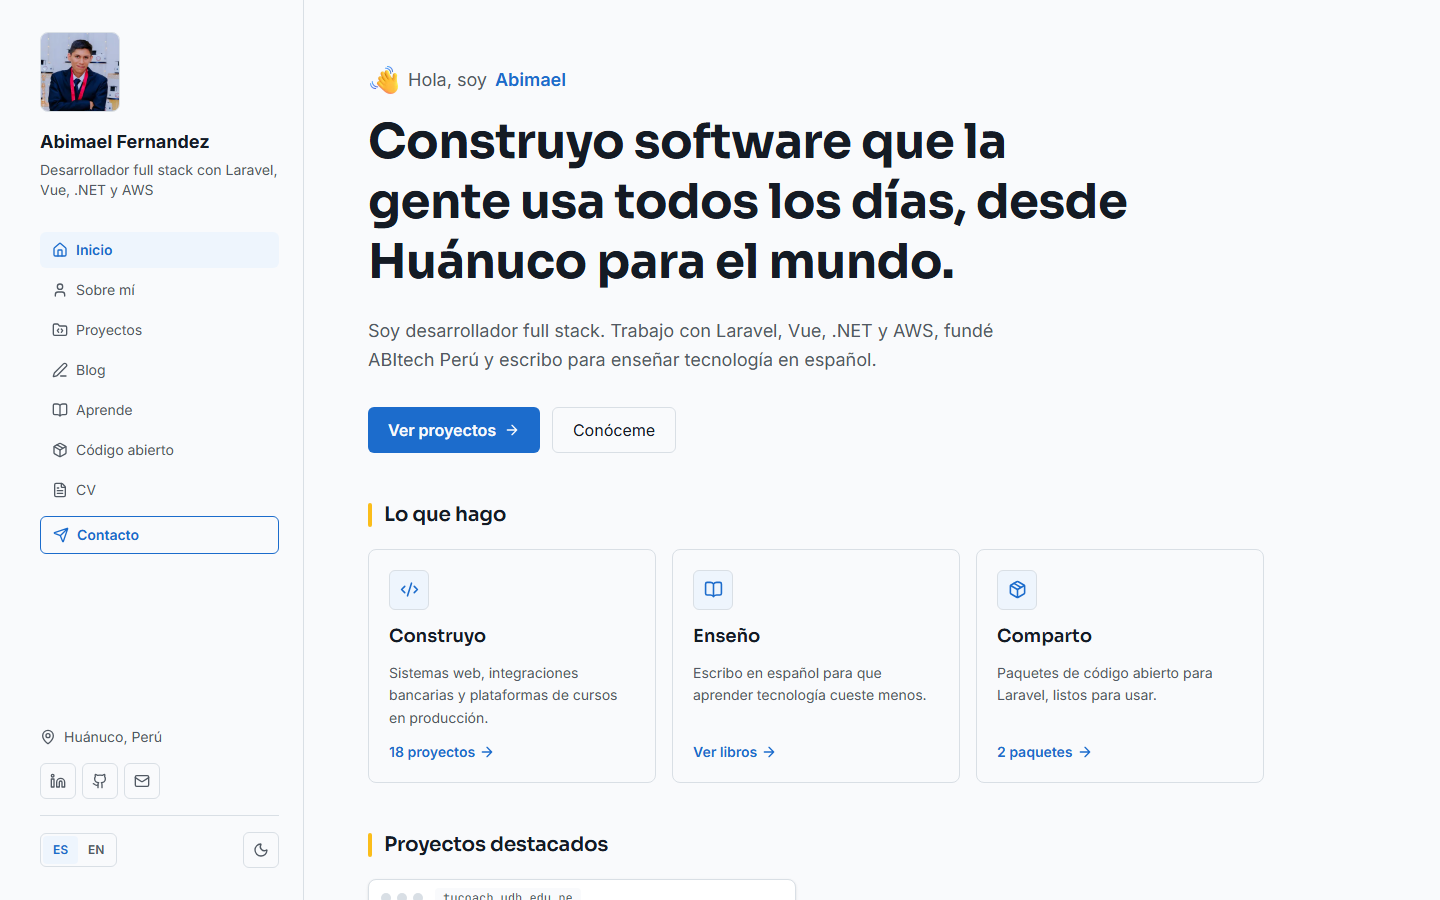
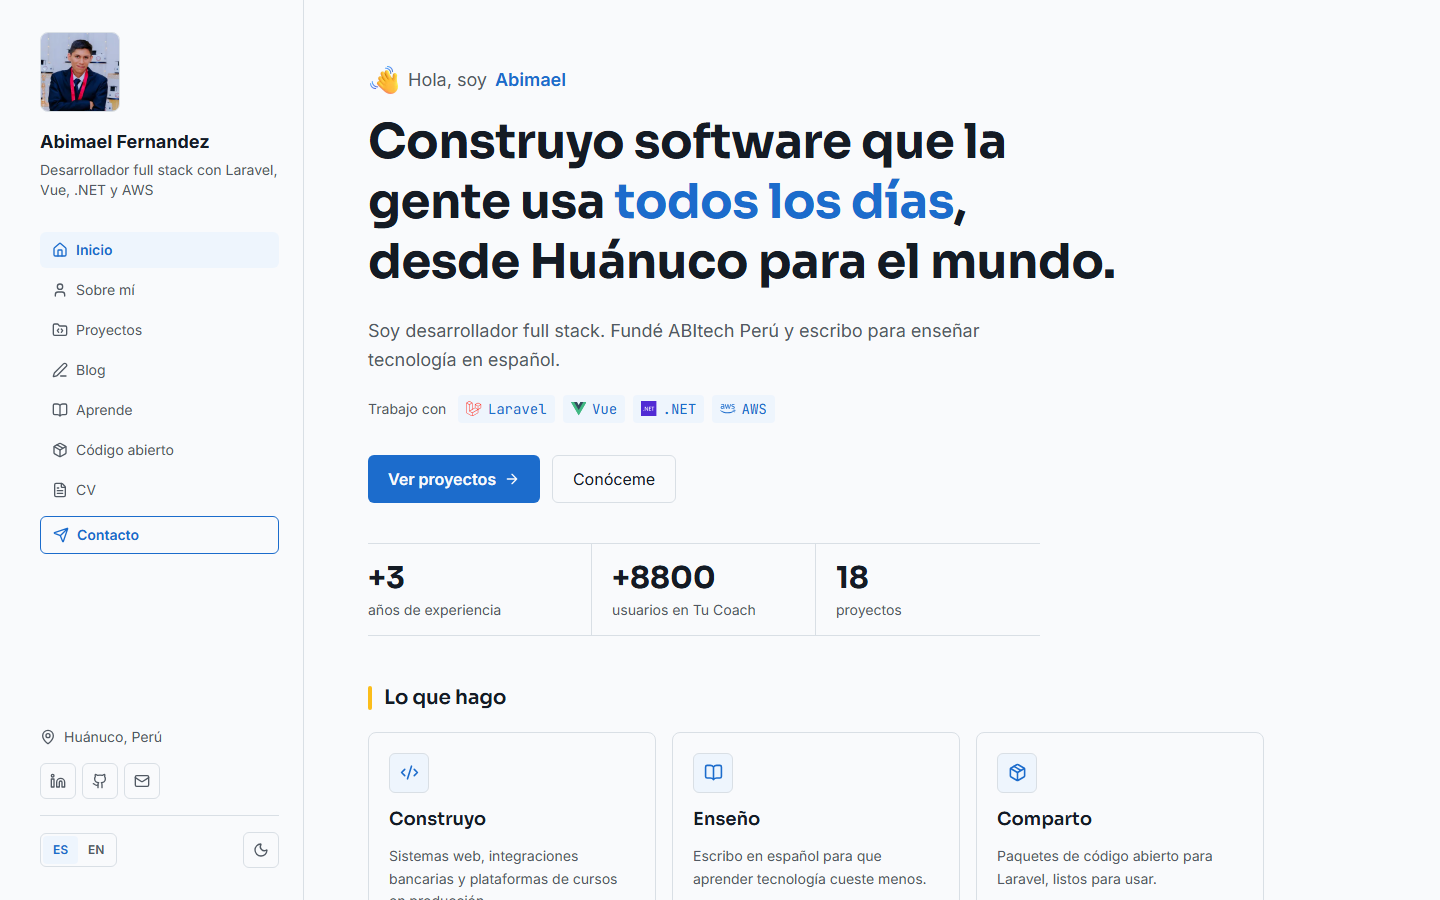
feat(inicio): resaltar misión y sumar cifras
En celular el inicio era un bloque de texto sin puntos de apoyo.

diff --git a/src/i18n/textos.ts b/src/i18n/textos.ts
@@ -52,8 +52,15 @@ const es = {
     saludo: "Hola, soy",
     mision:
       "Construyo software que la gente usa todos los días, desde Huánuco para el mundo.",
+    misionResaltada: "todos los días",
     intro:
-      "Soy desarrollador full stack. Trabajo con Laravel, Vue, .NET y AWS, fundé ABItech Perú y escribo para enseñar tecnología en español.",
+      "Soy desarrollador full stack. Fundé ABItech Perú y escribo para enseñar tecnología en español.",
+    trabajoCon: "Trabajo con",
+    cifras: {
+      anios: "años de experiencia",
+      usuarios: "usuarios en Tu Coach",
+      proyectos: "proyectos",
+    },
     verProyectos: "Ver proyectos",
     conoceme: "Conóceme",
     recorrido: "Mi recorrido",
@@ -242,8 +249,15 @@ const en: Textos = {
   inicio: {
     saludo: "Hi, I'm",
     mision: "I build software people use every day, from Huánuco to the world.",
+    misionResaltada: "every day",
     intro:
-      "I am a full stack developer. I work with Laravel, Vue, .NET and AWS, I founded ABItech Perú and I write to teach technology in Spanish.",
+      "I am a full stack developer. I founded ABItech Perú and I write to teach technology in Spanish.",
+    trabajoCon: "I work with",
+    cifras: {
+      anios: "years of experience",
+      usuarios: "users on Tu Coach",
+      proyectos: "projects",
+    },
     verProyectos: "See projects",
     conoceme: "About me",
     recorrido: "My journey",

diff --git a/tests/e2e/inicio.spec.ts b/tests/e2e/inicio.spec.ts
@@ -11,6 +11,8 @@ test("la portada saluda, dice la misión y muestra los destacados", async ({
   await expect(page.getByRole("heading", { level: 1 })).toHaveText(
     /Construyo software/,
   );
+  await expect(page.locator("h1 .text-acento")).toHaveText("todos los días");
+  await expect(page.getByText("usuarios en Tu Coach")).toBeVisible();
   await expect(
     page.getByRole("heading", { name: "Mi recorrido" }),
   ).toBeVisible();

diff --git a/tests/unit/textos.test.ts b/tests/unit/textos.test.ts
@@ -1,0 +1,13 @@
+import { describe, expect, it } from "vitest";
+
+import { textosDe } from "@/i18n/idioma";
+
+describe("textos del inicio", () => {
+  it.each(["es", "en"] as const)(
+    "la frase resaltada está dentro de la misión en %s",
+    (idioma) => {
+      const { inicio } = textosDe(idioma);
+      expect(inicio.mision).toContain(inicio.misionResaltada);
+    },
+  );
+});

diff --git a/CHANGELOG.md b/CHANGELOG.md
@@ -38,6 +38,16 @@ Formato de [Keep a Changelog](https://keepachangelog.com/es-ES/1.1.0/) y
 
 ### Cambiado
 
+- Inicio más claro en celular. La misión resalta «todos los días», las
+  tecnologías salen como logos y tres cifras resumen la trayectoria.
+- Botón del menú en celular solo con ícono, de 44 por 44 píxeles.
+- Barra de desplazamiento delgada, con los colores del tema.
+
+### Corregido
+
+- Los íconos ya no desaparecen al navegar entre páginas.
+- La CSP ya no bloquea un script del router de Astro.
+
 - Aprende con la portada del libro, cifras y una página de detalle con
   las portadas reales de sus 7 volúmenes.
 - Código abierto en formato editorial, sin tarjetas. Cada paquete tiene
